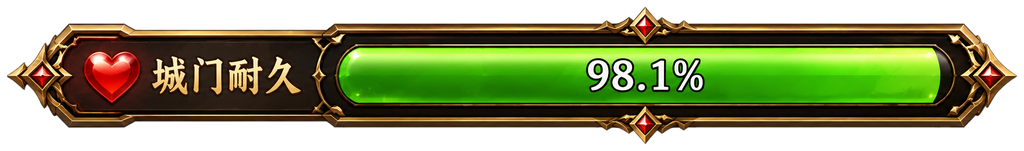
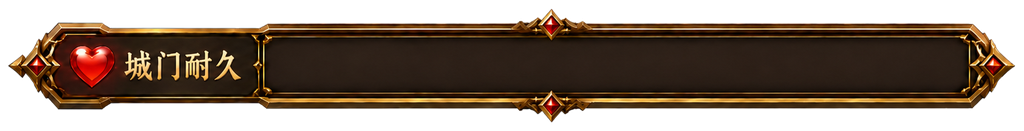
feat: replace battle health bar frames

diff --git a/assets/scripts/ui/UiArtManifest.ts b/assets/scripts/ui/UiArtManifest.ts
@@ -132,8 +132,8 @@ export const UiArtAssets: Record<string, UiArtAssetSpec> = {
   "hud_remaining_enemies.png": { atlas: "ui_hud_custom", path: "ui_hud_custom/hud_remaining_enemies", uuid: "f83d7d5e-ffe9-4c85-b3a8-06456dbd8743", textureUuid: "f83d7d5e-ffe9-4c85-b3a8-06456dbd8743@6c48a", width: 768, height: 272, nineSlice: null },
   "hud_gold_panel.png": { atlas: "ui_hud_custom", path: "ui_hud_custom/hud_gold_panel", uuid: "6121a37d-6826-4f84-b1a2-ea7824d01a2b", textureUuid: "6121a37d-6826-4f84-b1a2-ea7824d01a2b@6c48a", width: 1024, height: 209, nineSlice: null },
   "hud_boss_title.png": { atlas: "ui_hud_custom", path: "ui_hud_custom/hud_boss_title", uuid: "ffda0f9b-9e0a-4a5e-9b8b-262c580bf9a3", textureUuid: "ffda0f9b-9e0a-4a5e-9b8b-262c580bf9a3@6c48a", width: 713, height: 353, nineSlice: null },
-  "hud_boss_health_frame.png": { atlas: "ui_hud_custom", path: "ui_hud_custom/hud_boss_health_frame", uuid: "d6dea0a1-e696-4808-9e96-06e6cf3062ae", textureUuid: "d6dea0a1-e696-4808-9e96-06e6cf3062ae@6c48a", width: 1024, height: 263, nineSlice: null },
-  "hud_city_durability_frame.png": { atlas: "ui_hud_custom", path: "ui_hud_custom/hud_city_durability_frame", uuid: "dc4caae3-2e8e-472a-84bc-d8014bb434b6", textureUuid: "dc4caae3-2e8e-472a-84bc-d8014bb434b6@6c48a", width: 1024, height: 151, nineSlice: null },
+  "hud_boss_health_frame.png": { atlas: "ui_hud_custom", path: "ui_hud_custom/hud_boss_health_frame", uuid: "d6dea0a1-e696-4808-9e96-06e6cf3062ae", textureUuid: "d6dea0a1-e696-4808-9e96-06e6cf3062ae@6c48a", width: 1024, height: 187, nineSlice: null },
+  "hud_city_durability_frame.png": { atlas: "ui_hud_custom", path: "ui_hud_custom/hud_city_durability_frame", uuid: "dc4caae3-2e8e-472a-84bc-d8014bb434b6", textureUuid: "dc4caae3-2e8e-472a-84bc-d8014bb434b6@6c48a", width: 1024, height: 131, nineSlice: null },
   "hud_pause_button.png": { atlas: "ui_hud_custom", path: "ui_hud_custom/hud_pause_button", uuid: "0a0b01fd-9d3a-441a-8315-814511d971b0", textureUuid: "0a0b01fd-9d3a-441a-8315-814511d971b0@6c48a", width: 768, height: 752, nineSlice: null },
   "hud_resume_button.png": { atlas: "ui_hud_custom", path: "ui_hud_custom/hud_resume_button", uuid: "0dc9b761-d075-4d4d-baee-9ceca015fb6b", textureUuid: "0dc9b761-d075-4d4d-baee-9ceca015fb6b@6c48a", width: 768, height: 752, nineSlice: null },
   "hud_auto_button_custom.png": { atlas: "ui_hud_custom", path: "ui_hud_custom/hud_auto_button_custom", uuid: "1f63eb84-a138-4fcb-a94c-ba207e40c450", textureUuid: "1f63eb84-a138-4fcb-a94c-ba207e40c450@6c48a", width: 619, height: 659, nineSlice: null },

diff --git a/tools/prepare-battle-hud-assets.py b/tools/prepare-battle-hud-assets.py
@@ -10,7 +10,8 @@ from PIL import Image, ImageDraw, ImageFilter, ImageFont
 
 
 ROOT = Path(__file__).resolve().parents[1]
-SOURCE_ROOT = Path("/Users/hudaijin/Downloads/icon")
+ICON_SOURCE_ROOT = Path("/Users/hudaijin/Downloads/icon")
+DOWNLOADS_ROOT = Path("/Users/hudaijin/Downloads")
 OUTPUT_ROOT = ROOT / "assets" / "bundles" / "ui" / "ui_hud_custom"
 MANIFEST = ROOT / "assets" / "scripts" / "ui" / "UiArtManifest.ts"
 PREVIEW = ROOT / "docs" / "ui_art_generated" / "atlas_previews" / "ui_hud_custom_preview.png"
@@ -18,26 +19,42 @@ PREVIEW = ROOT / "docs" / "ui_art_generated" / "atlas_previews" / "ui_hud_custom
 
 @dataclass(frozen=True)
 class HudAsset:
-  source: str
+  source_path: Path
   filename: str
   maximum_edge: int
 
 
+def icon_source(filename: str) -> Path:
+  return ICON_SOURCE_ROOT / filename
+
+
+def download_source(filename: str) -> Path:
+  return DOWNLOADS_ROOT / filename
+
+
 ASSETS = (
-  HudAsset("怪物波数显示.png", "hud_wave_panel.png", 1024),
-  HudAsset("剩余敌人显示图标.png", "hud_remaining_enemies.png", 768),
-  HudAsset("金币显示面板.png", "hud_gold_panel.png", 1024),
-  HudAsset("首领显示图标.png", "hud_boss_title.png", 768),
-  HudAsset("首领血条显示.png", "hud_boss_health_frame.png", 1024),
-  HudAsset("城门耐久状态条.png", "hud_city_durability_frame.png", 1024),
+  HudAsset(icon_source("怪物波数显示.png"), "hud_wave_panel.png", 1024),
+  HudAsset(icon_source("剩余敌人显示图标.png"), "hud_remaining_enemies.png", 768),
+  HudAsset(icon_source("金币显示面板.png"), "hud_gold_panel.png", 1024),
+  HudAsset(icon_source("首领显示图标.png"), "hud_boss_title.png", 768),
+  HudAsset(
+    download_source("ChatGPT Image 2026年7月14日 11_58_47.png"),
+    "hud_boss_health_frame.png",
+    1024,
+  ),
+  HudAsset(
+    download_source("ChatGPT Image 2026年7月14日 11_45_20.png"),
+    "hud_city_durability_frame.png",
+    1024,
+  ),
   # The source filenames and the depicted symbols are reversed. Runtime names
   # follow the depicted action: pause uses ||, resume uses the play triangle.
-  HudAsset("继续按钮标志.png", "hud_pause_button.png", 768),
-  HudAsset("暂停按钮图标.png", "hud_resume_button.png", 768),
-  HudAsset("自动图标设计.png", "hud_auto_button_custom.png", 768),
-  HudAsset("羁绊徽章.png", "hud_bond_button_custom.png", 768),
-  HudAsset("统计图标设计.png", "hud_statistics_button.png", 768),
-  HudAsset("绝技徽章设计.png", "hud_ultimate_badge_custom.png", 768),
+  HudAsset(icon_source("继续按钮标志.png"), "hud_pause_button.png", 768),
+  HudAsset(icon_source("暂停按钮图标.png"), "hud_resume_button.png", 768),
+  HudAsset(icon_source("自动图标设计.png"), "hud_auto_button_custom.png", 768),
+  HudAsset(icon_source("羁绊徽章.png"), "hud_bond_button_custom.png", 768),
+  HudAsset(icon_source("统计图标设计.png"), "hud_statistics_button.png", 768),
+  HudAsset(icon_source("绝技徽章设计.png"), "hud_ultimate_badge_custom.png", 768),
 )
 
 
@@ -203,7 +220,7 @@ def create_preview(rows: list[tuple[HudAsset, Image.Image, str, str]]) -> None:
 
 
 def main() -> None:
-  missing = [asset.source for asset in ASSETS if not (SOURCE_ROOT / asset.source).exists()]
+  missing = [str(asset.source_path) for asset in ASSETS if not asset.source_path.exists()]
   if missing:
     raise FileNotFoundError(f"missing HUD source images: {', '.join(missing)}")
 
@@ -211,7 +228,7 @@ def main() -> None:
   write_directory_meta(OUTPUT_ROOT)
   generated: list[tuple[HudAsset, Image.Image, str, str]] = []
   for asset in ASSETS:
-    with Image.open(SOURCE_ROOT / asset.source) as source:
+    with Image.open(asset.source_path) as source:
       image = resize_for_runtime(remove_connected_white_canvas(source), asset.maximum_edge)
     output = OUTPUT_ROOT / asset.filename
     image.save(output, optimize=True)

diff --git a/tools/battle-hud-assets.test.py b/tools/battle-hud-assets.test.py
@@ -9,6 +9,17 @@ from PIL import Image
 ROOT = Path(__file__).resolve().parents[1]
 OUTPUT = ROOT / "assets" / "bundles" / "ui" / "ui_hud_custom"
 MANIFEST = ROOT / "assets" / "scripts" / "ui" / "UiArtManifest.ts"
+PREPARE = ROOT / "tools" / "prepare-battle-hud-assets.py"
+
+NEW_SOURCE_NAMES = {
+  "hud_city_durability_frame.png": "ChatGPT Image 2026年7月14日 11_45_20.png",
+  "hud_boss_health_frame.png": "ChatGPT Image 2026年7月14日 11_58_47.png",
+}
+
+MINIMUM_ASPECT_RATIOS = {
+  "hud_city_durability_frame.png": 7.5,
+  "hud_boss_health_frame.png": 5.0,
+}
 
 EXPECTED = {
   "hud_wave_panel.png",
@@ -28,6 +39,10 @@ EXPECTED = {
 
 assert OUTPUT.is_dir(), f"missing generated asset directory: {OUTPUT}"
 manifest_text = MANIFEST.read_text(encoding="utf-8")
+prepare_text = PREPARE.read_text(encoding="utf-8")
+
+for filename, source_name in NEW_SOURCE_NAMES.items():
+  assert source_name in prepare_text, f"{filename} is not mapped to the supplied source"
 
 for filename in sorted(EXPECTED):
   image_path = OUTPUT / filename
@@ -45,6 +60,11 @@ for filename in sorted(EXPECTED):
     )
     assert corners == (0, 0, 0, 0), f"{filename} still has an opaque white canvas"
     assert alpha.getextrema() == (0, 255), f"{filename} should contain transparent and opaque pixels"
+    minimum_aspect = MINIMUM_ASPECT_RATIOS.get(filename)
+    if minimum_aspect is not None:
+      assert image.width / image.height >= minimum_aspect, (
+        f"{filename} was not cropped to the supplied horizontal frame"
+      )
 
   meta_path = image_path.with_suffix(".png.meta")
   meta = json.loads(meta_path.read_text(encoding="utf-8"))